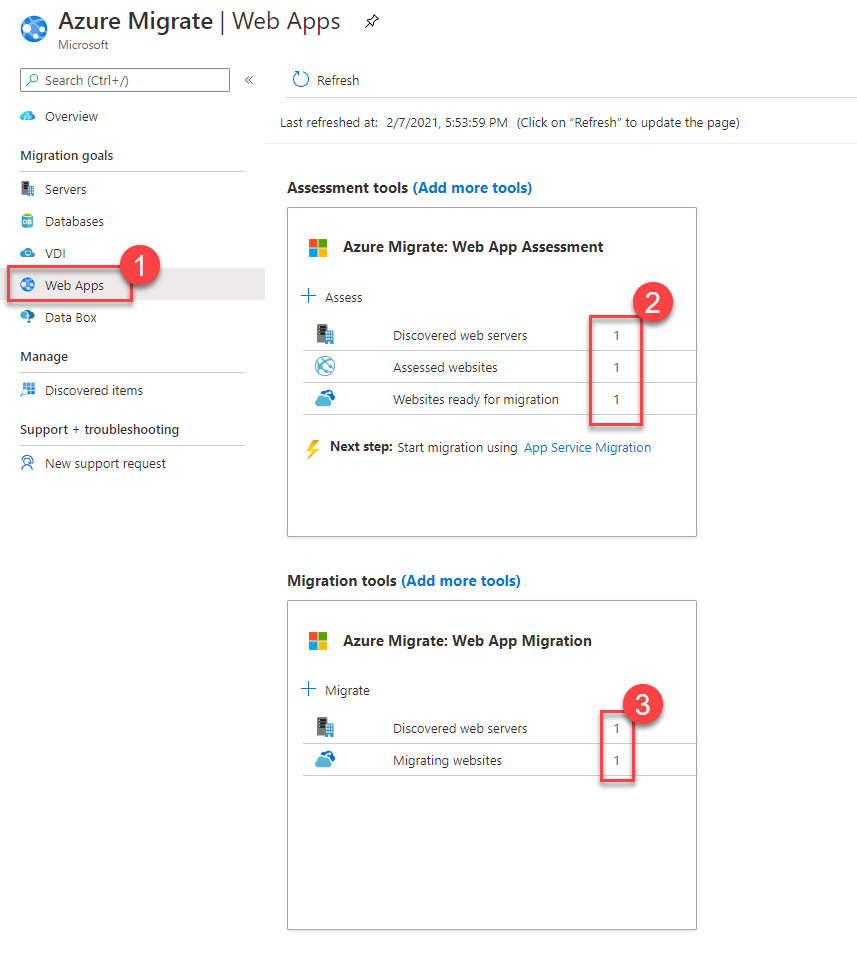
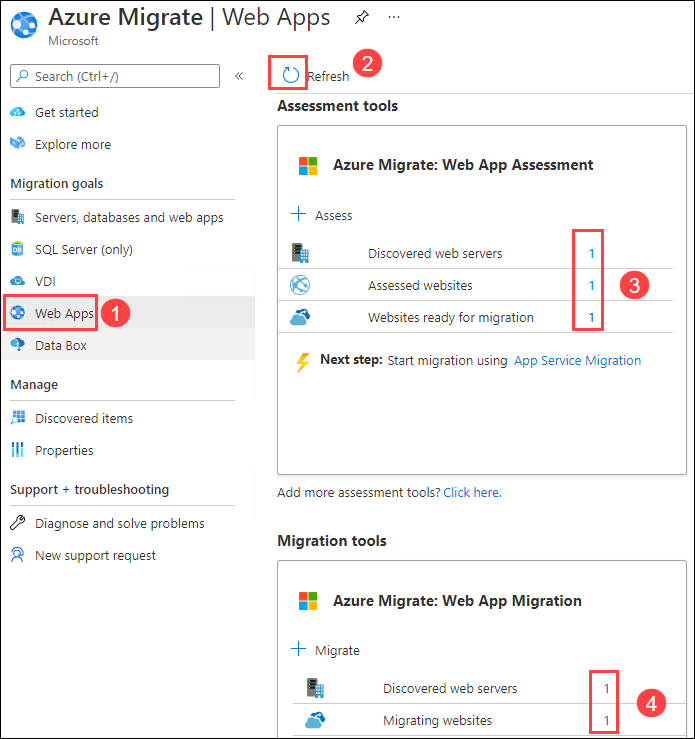
Minor updates to the Azure Migrate screens

diff --git a/Hands-on lab/HOL step-by-step - App modernization.md b/Hands-on lab/HOL step-by-step - App modernization.md
@@ -239,6 +239,7 @@ After reviewing the assessment results, you have ensured the web application is 
     ![Azure Login process is complete. A message dialog is shown that indicates the login process is a success.](media/appservicemigration-azure-login-complete.png "App Service Migration Assistant authentication approval")
 
 5. Select the Azure Migrate project we created **(1)** in the previous exercise to submit our migration results. Select **Next** to continue.
+    >**Note:** If you do not see your Azure Migrate Project, you may have switch user directory (subscriptions) to the directory where the project was created.
 
     ![Azure Migrate Project is set to partsunlimitedweb. The next button is highlighted.](media/appservicemigration-azure-migrate.png "Azure Migrate Hub integration")
 
@@ -246,15 +247,24 @@ After reviewing the assessment results, you have ensured the web application is 
 
     ![Deployment options are presented. The existing lab resource group is selected as the destination. The destination site name is set to partsunlimited-web-20X21. Migrate button is highlighted.](media/appservicemigration-migrate.png "Azure App Service Migration Assistant Options")
 
+
+
+7. Verify your migration. Select **Go to your website**.
+
+    ![The image shows a successful migration results message. The Go to your website button is highlighted.](media/azure-migrate-verify-app-svc-migration.png "Successful Migration Results")
+
     > **WARNING:** If your migration fails with a **WindowsWorkersNotAllowedInLinuxResourceGroup (1)** try the migration process again, but this time selecting a different Resource Group for your deployment. If that is not possible, select a different Region.  
     >
     > ![Migration failed error screen is shown. WindowsWorkersNotAllowedInLinuxResourceGroup message is highlighted.](media/app-migration-windowsworkersnotallowed.png "Migration failed")
 
-7. We have just completed the Parts Unlimited website's migration from IIS on a Virtual Machine to Azure App Service. Congratulations. Let's go back to the Azure Portal and look into Azure Migrate. Search for `migrate` **(1)** on the Azure Portal and select **Azure Migrate (2)**.
+8. We have just completed the Parts Unlimited website's migration from IIS on a Virtual Machine to Azure App Service. Congratulations. Let's go back to the Azure Portal and look into Azure Migrate. Search for `migrate` **(1)** on the Azure Portal and select **Azure Migrate (2)**.
 
     ![Azure Portal is open. The search box is filled with the migrate keyword. Azure Migrate is highlighted from the result list.](media/find-azure-migrate.png "Azure Migrate on Azure Portal Search")
 
-8. Switch to the **Web Apps (1)** section. See the number of discovered web servers, assessed websites **(2)** and migrated websites change **(3)**. Keep in mind that you might need to wait for 5 to 10 minutes for results to show up. You can use the **Refresh** button on the page to see the latest status.
+9. Verify your migrations.
+    - Select the **Web Apps** section. View the number of discovered web servers, assessed websites.
+    - Select the **Refresh** button.
+    - View the assessed and migrated websites. Keep in mind that you might need to wait for 5 to 10 minutes for results to show up.
 
     ![Azure Migrate shows web app assessment and migration reports.](media/azure-migrate-web-app-migration-done.png "Azure Migrate Web Apps Tools")
 
@@ -721,9 +731,10 @@ In this exercise, you will move the codebase to a GitHub Repo, create a staging 
 
 2. Switch to the **Deployment Center (1)** tab. Select **Go to Settings (2)**.
 
-    ![Deployment Center tab is selected. Go to Settings button is highlighted.](media/app-service-goto-deployment-settings.png "Deployment Center")
+    ![Deployment Center tab is selected. Settings tab is highlighted.](media/app-service-goto-deployment-settings.png "Deployment Center")
 
-3. Select **GitHub (1)** as your source; **.NET Core (2)** as the runtime stack and **.NET Core 2.1 (LTS) (3)** for version. Select **Authorize** to create the connection between the App Service deployment slot and the GitHub repository we previously prepared.
+
+3. Select **Authorize** to create the connection between the App Service deployment slot and the GitHub repository we previously prepared.
 
     ![Deployment Settings page is open. The source is set to GitHub. Runtime stack is set to .NET Core. Version is set to .NET Core 2.1 (LTS). Authorize button for GitHub is highlighted. ](media/app-service-deployment-settings.png "Deployment Center Settings")
 
@@ -733,7 +744,7 @@ In this exercise, you will move the codebase to a GitHub Repo, create a staging 
 
 5. Once GitHub authorization is complete, go back to the browser with the Azure Portal. Select the GitHub **Organization (1)** where you created the GitHub repository. This might be your personal account name if that is where you created the repository. Select the repository **partsunlimited (2)** and the branch **main (3)** as the source for the CI/CD pipeline. Select **Save (4)** to create CI/CD pipeline.
 
-    ![Authorize AzureAppService button is highlighted.](media/app-service-cicd-settings-save.png "Deployment Center Settings")
+    ![Deployment configuration fields are listed.](media/app-service-cicd-settings-save.png "Deployment Center Settings")
 
     Once you select **Save**, the portal will add your App Service publishing profile as a secret to your GitHub repository. This will allow GitHub Actions to publish the Parts Unlimited website to the staging deployment slot. Additionally, the portal will create a YAML file that describes the steps required to build and publish the code in the partsunlimited repository.
 
